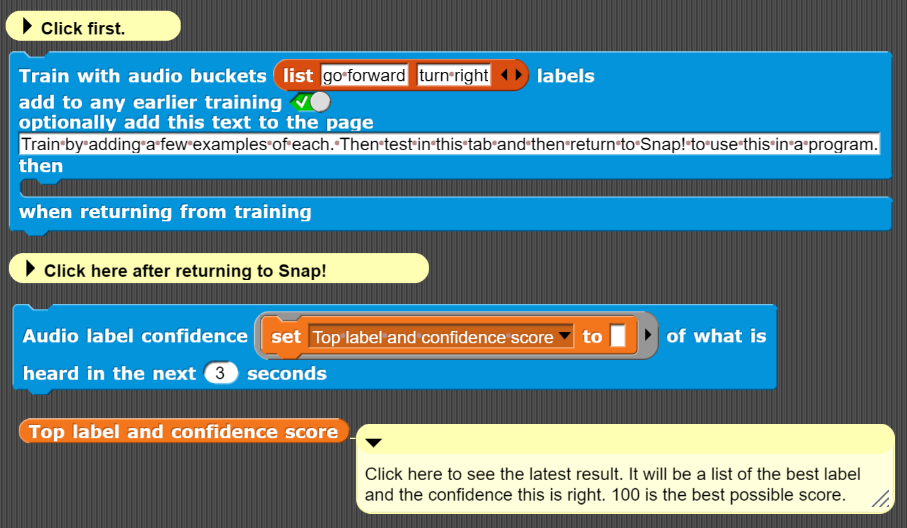
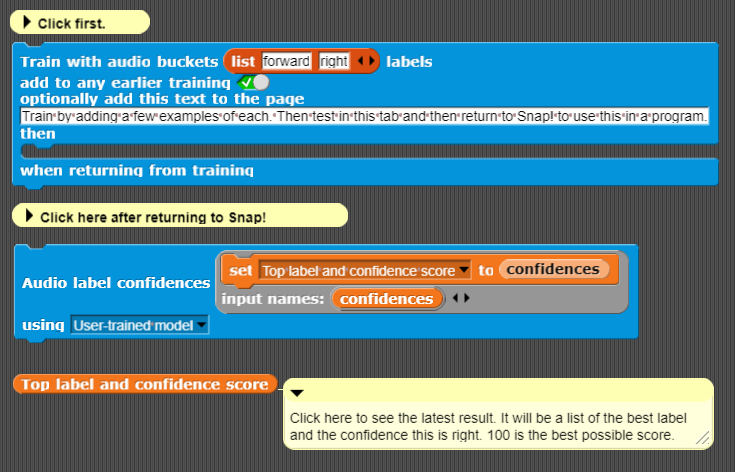
Updated audio sample projects and chapter 4 with new blocks

diff --git a/AI-Teacher-Guide/chapter-4.html b/AI-Teacher-Guide/chapter-4.html
@@ -344,6 +344,10 @@ Here you can create programs that respond to any sound.
 Also you can train it to recognise a few different words or phrases that works locally on your computer without sending
 any audio to a cloud server.
 This is useful in contexts without a reliable network connection or for increased privacy.
+Furthermore, the <span class="block-name">Audio label confidences</span> block has an option to use a 
+"Pre-trained model of 20 words" on your device.
+It is capable of recognising 'zero', 'one', 'two', 'three', 'four', 'five', 'six', 'seven', 'eight', 'nine',
+'up', 'down', 'left', 'right', 'go', 'stop', 'yes', and 'no'.
 </p>
 <figure class = "snap-iframe"
         id = "train audio"
@@ -355,12 +359,15 @@ This is useful in contexts without a reliable network connection or for increase
 </figure>
 
 <p class="instructions">
-The <span class="block-name">Train with audio buckets...</span> block currently uses a simple learning algorithm.
-The plan is to replace it with a deep learning model.
+The <span class="block-name">Train with audio buckets...</span> block uses a Tensorflow.js deep learning model
+which without a GPU runs too slow to be useful.
+For running on small computers such as a Raspberry Pi there is also the similar
+<span class="block-name">Train (without Tensorflow) with audio buckets...</span> block and its accompanying
+<span class="block-name">Audio label confidences (without Tensorflow)</span> block.
 </p>
 <h4 class="sample-program-white">An Example Program using the Microphone and Machine Learning</h4>
 <p class="sample-program">
-An example using audio training is to tell a sprite to "go forward", "turn right", or "stop".
+An example using audio training is to tell a sprite to go "forward", turn "right", or "stop".
 Note that these labels are for us humans, you can for example make any sound or speak in another language
 and the program should work just fine.
 </p>
@@ -636,8 +643,8 @@ also has sample projects that can be adapted.
 <h4 class="guide-to-guide-white">Future directions for this chapter</h4>
 <p class="guide-to-guide">
 Several enhancements to this chapter are planned.
-These include support for other kinds of input such as text or numbers,
-better models for audio training, and more.
+These include support for other kinds of input such as text or numbers.
+Interfaces to other pre-trained models are planned.
 </p>
 
 <h4 class="resources-white" id="additional-resources">Additional resources</h4>
